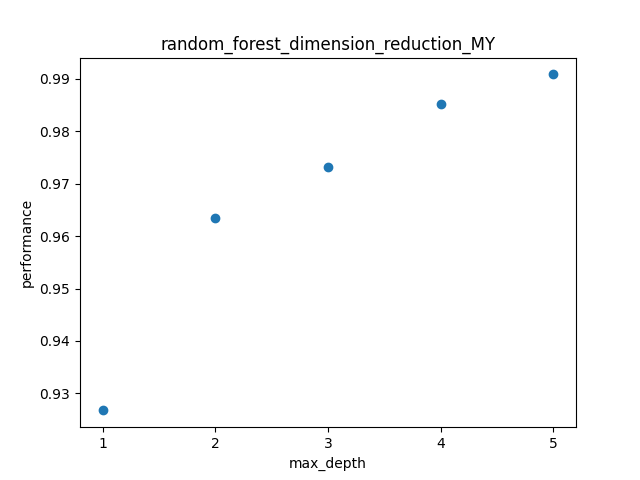
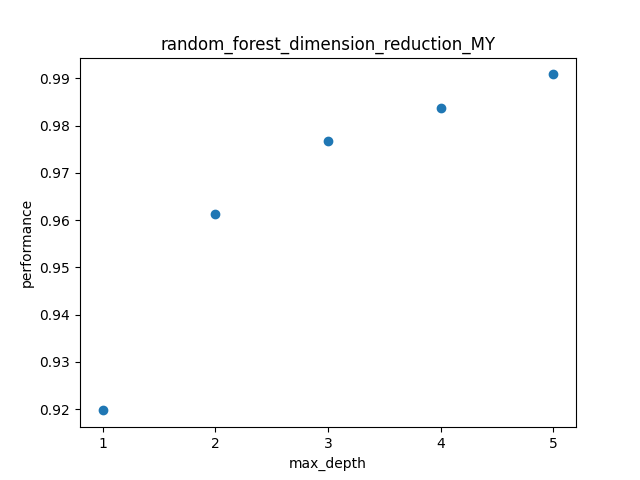
complete all model

diff --git a/main.py b/main.py
@@ -7,9 +7,12 @@ from sklearn.ensemble import RandomForestClassifier
 from sklearn.svm import SVC
 from sklearn.neural_network import MLPClassifier
 from sklearn.preprocessing import StandardScaler
+# https://scikit-learn.org/stable/modules/generated/sklearn.decomposition.PCA.html
 from sklearn.decomposition import PCA
+# https://scikit-learn.org/stable/modules/generated/sklearn.feature_selection.SequentialFeatureSelector.html#sklearn.feature_selection.SequentialFeatureSelector
 from sklearn.feature_selection import SequentialFeatureSelector
-from sklearn.feature_selection import SelectFromModel
+# https://scikit-learn.org/stable/modules/generated/sklearn.feature_selection.SelectKBest.html#sklearn.feature_selection.SelectKBest
+from sklearn.feature_selection import SelectKBest, chi2
 import matplotlib.pyplot as plt
 
 data = pd.read_csv('letter-recognition.data', header=None).to_numpy()
@@ -25,8 +28,14 @@ def split_data(samples):
 
 
 def fit(model, name, dataset, classifier, hyperparameter, x_label, dr_method, dr_require_y=True):
+    values = list(hyperparameter.values())[0]
+    _min = min(values)
+    _max = max(values)
+    interval = (_max - _min) / (len(values) - 1)
+    _range = np.arange(_min - interval, _max + interval, interval)
+
     def plot(data_type):
-        plt.xticks(np.arange(0, 6, 1))
+        plt.xticks(_range)
         plt.scatter(list(hyperparameter.values())[0], clf.cv_results_['mean_test_score'])
         plt.title(f"{model}_{data_type}_{name}")
         plt.xlabel(x_label)
@@ -49,7 +58,7 @@ def fit(model, name, dataset, classifier, hyperparameter, x_label, dr_method, dr
     # print(clf.cv_results_)
     # print(clf.cv_results_['params'])
     # plt.plot(raw[:, column], predicted, color="yellow")
-    # dr_x = np.array()
+    # dr = dimension reduction
     if dr_require_y:
         dr_x = dr_method.fit_transform(x, y)
     else:
@@ -65,21 +74,18 @@ def train_models(dataset, name):
         PCA(n_components=4), False)
     # https://scikit-learn.org/stable/modules/generated/sklearn.tree.DecisionTreeClassifier.html
     fit('decision_tree', name, dataset, DecisionTreeClassifier(), {'max_depth': [1, 2, 3, 4, 5]}, 'max_depth',
-        SequentialFeatureSelector(KNeighborsClassifier(n_neighbors=3), n_features_to_select=4))
+        SelectKBest(k=4))
     # https://scikit-learn.org/stable/modules/generated/sklearn.ensemble.RandomForestClassifier.html
     fit('random_forest', name, dataset, RandomForestClassifier(), {'max_depth': [1, 2, 3, 4, 5]}, 'max_depth',
         SequentialFeatureSelector(KNeighborsClassifier(n_neighbors=3), n_features_to_select=4, direction='backward'))
+    # https://scikit-learn.org/stable/modules/generated/sklearn.svm.SVC.html
+    fit('svm', name, dataset, SVC(), {'C': [1, 2, 3, 4, 5]}, 'C',
+        SequentialFeatureSelector(KNeighborsClassifier(n_neighbors=3), n_features_to_select=4))
+    # https://scikit-learn.org/stable/modules/generated/sklearn.neural_network.MLPClassifier.html#sklearn.neural_network.MLPClassifier
+    fit('ann', name, dataset, MLPClassifier(max_iter=1500), {'hidden_layer_sizes': [100, 150, 200, 250, 300]},
+        'hidden_layer_sizes', SelectKBest(chi2, k=4))
 
 
 train_models(data_hk, 'HK')
 train_models(data_my, 'MY')
 train_models(data_ab, 'AB')
-# # https://scikit-learn.org/stable/modules/generated/sklearn.svm.SVC.html
-# train_model(data_hk, SVC(), {'kernel': ('linear', 'poly', 'rbf', 'sigmoid')})
-# # https://scikit-learn.org/stable/modules/generated/sklearn.neural_network.MLPClassifier.html#sklearn.neural_network.MLPClassifier
-# train_model(data_hk, MLPClassifier(max_iter=1000), {'learning_rate': ['constant', 'invscaling', 'adaptive']})
-
-# # https://scikit-learn.org/stable/modules/generated/sklearn.decomposition.PCA.html
-# # https://scikit-learn.org/stable/modules/generated/sklearn.feature_selection.SequentialFeatureSelector.html#sklearn.feature_selection.SequentialFeatureSelector
-# # https://scikit-learn.org/stable/modules/generated/sklearn.feature_selection.SelectFromModel.html#sklearn.feature_selection.SelectFromModel
-# print(SelectFromModel(estimator=DecisionTreeClassifier()).fit_transform(X, y))
